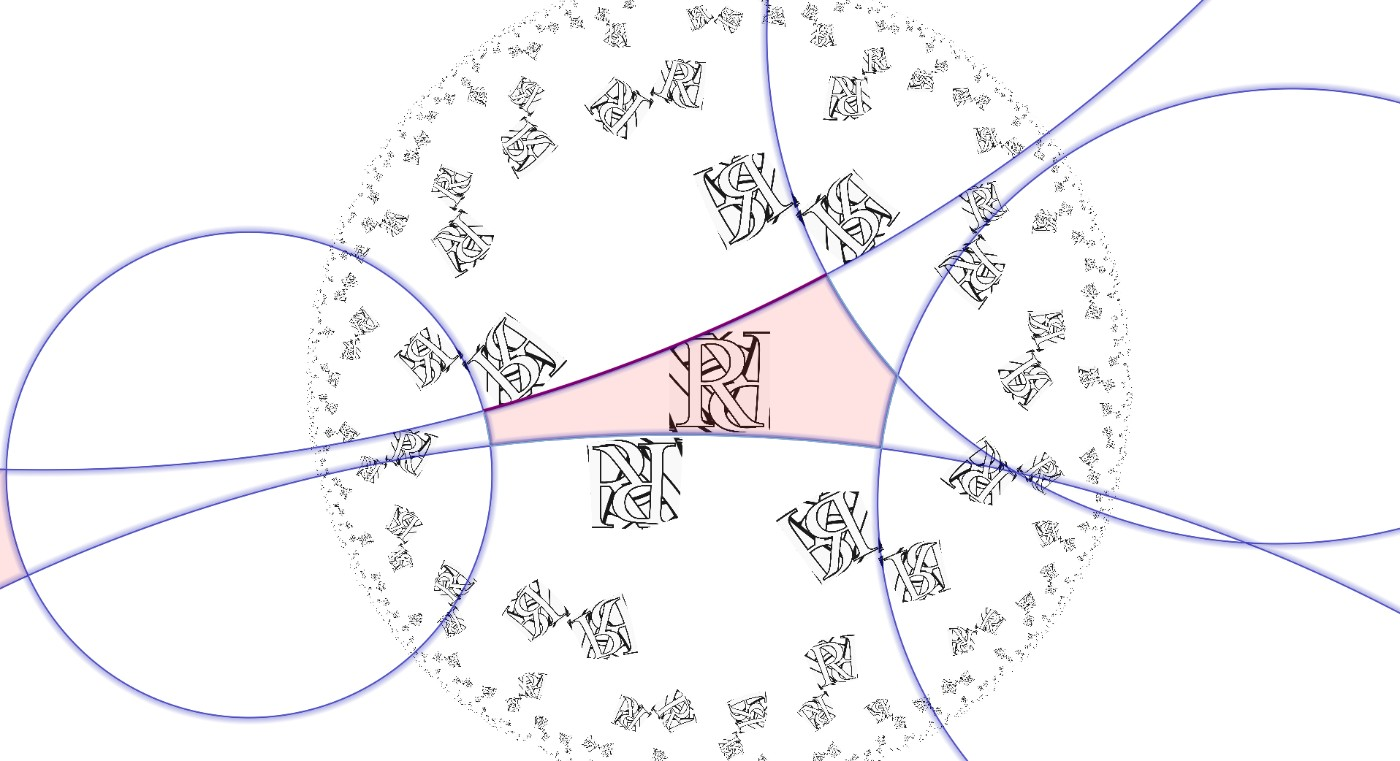
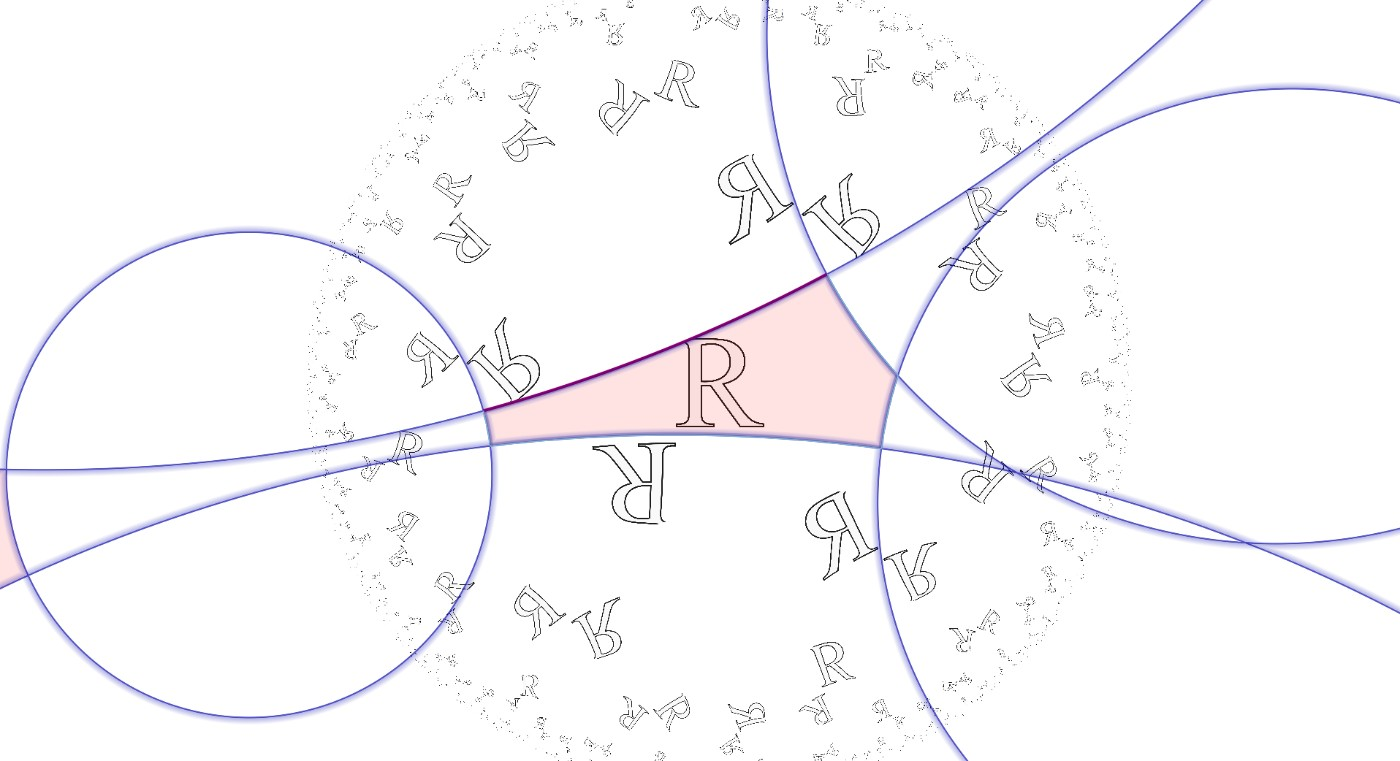
Field guide: turn off crown compositing for the letter motif
useCrown pre-composites each tile with its neighbours' transformed
copies, so a photographic texture flows seamlessly across the domain
walls. With a single glyph it instead double-exposes every tile: an R
with a rotated R laid over it inside a visible square box, which is what
the examples (and the page's own title image) were showing. It is the
app's default-off; the 23x preset had it on and the Visualize overrides
inherited it. Off now, so each fundamental domain carries exactly one
clean R and the rotated/mirrored copies are the neighbouring domains.
Hero screenshot regenerated, caption explains the setting.

diff --git a/tutorials/orbifold-experiments.html b/tutorials/orbifold-experiments.html
@@ -80,7 +80,9 @@ figcaption{font-family:ui-sans-serif,system-ui,sans-serif;font-size:13px;color:v
   <figcaption>The SymPix app rendering <span class="sym">23x</span> with the fundamental-domain edges
   drawn over the pattern. The Visualize buttons paint each orbifold with a letter <b>R</b>, because a
   chiral motif makes the symmetry readable: every copy that reads <b>Я</b> has been mirrored, every
-  upside-down one rotated. In the app: hover a colored arc until it glows yellow; <b>drag</b> to change
+  upside-down one rotated. (The tile's own "crown" compositing is switched off for these links —
+  with a photo texture it makes the image flow across the domain walls, but with a single glyph it
+  would stack a rotated R on top of each one.) In the app: hover a colored arc until it glows yellow; <b>drag</b> to change
   its length, <b>shift-drag</b> (or shift-wheel) to twist. Prefer a different look? Any of the 270
   textures under <i>pattern → pattern params → texture</i> works — the Haeckel plates are beautiful,
   though on large domains they blur. Symbols are typed under <i>settings → symmetry → group params</i>;
@@ -494,8 +496,12 @@ Machine check of every table row: <span id="selfcheck">…</span>
         pattern: {
           // patternParams carries a className, so it replaces the preset's
           // wholesale — every field it needs must be restated here.
+          // useCrown pre-composites each tile with its neighbours' transformed
+          // copies so a photographic texture flows across the domain walls. For
+          // a single glyph it just double-exposes the tile (an R with a rotated
+          // R on top of it), so keep it off — the app's own default.
           patternParams: { className: 'PatternImage', params: {
-            id: 'img1', transparency: 0, useCrown: true,
+            id: 'img1', transparency: 0, useCrown: false,
             transform: { centerX: 0, centerY: 0, scale: 1, angle: 0 },
             texture: { className: 'TextureFile', params: {
               texName: MOTIF, showFrame: false, texSize: 1024 } } } },
